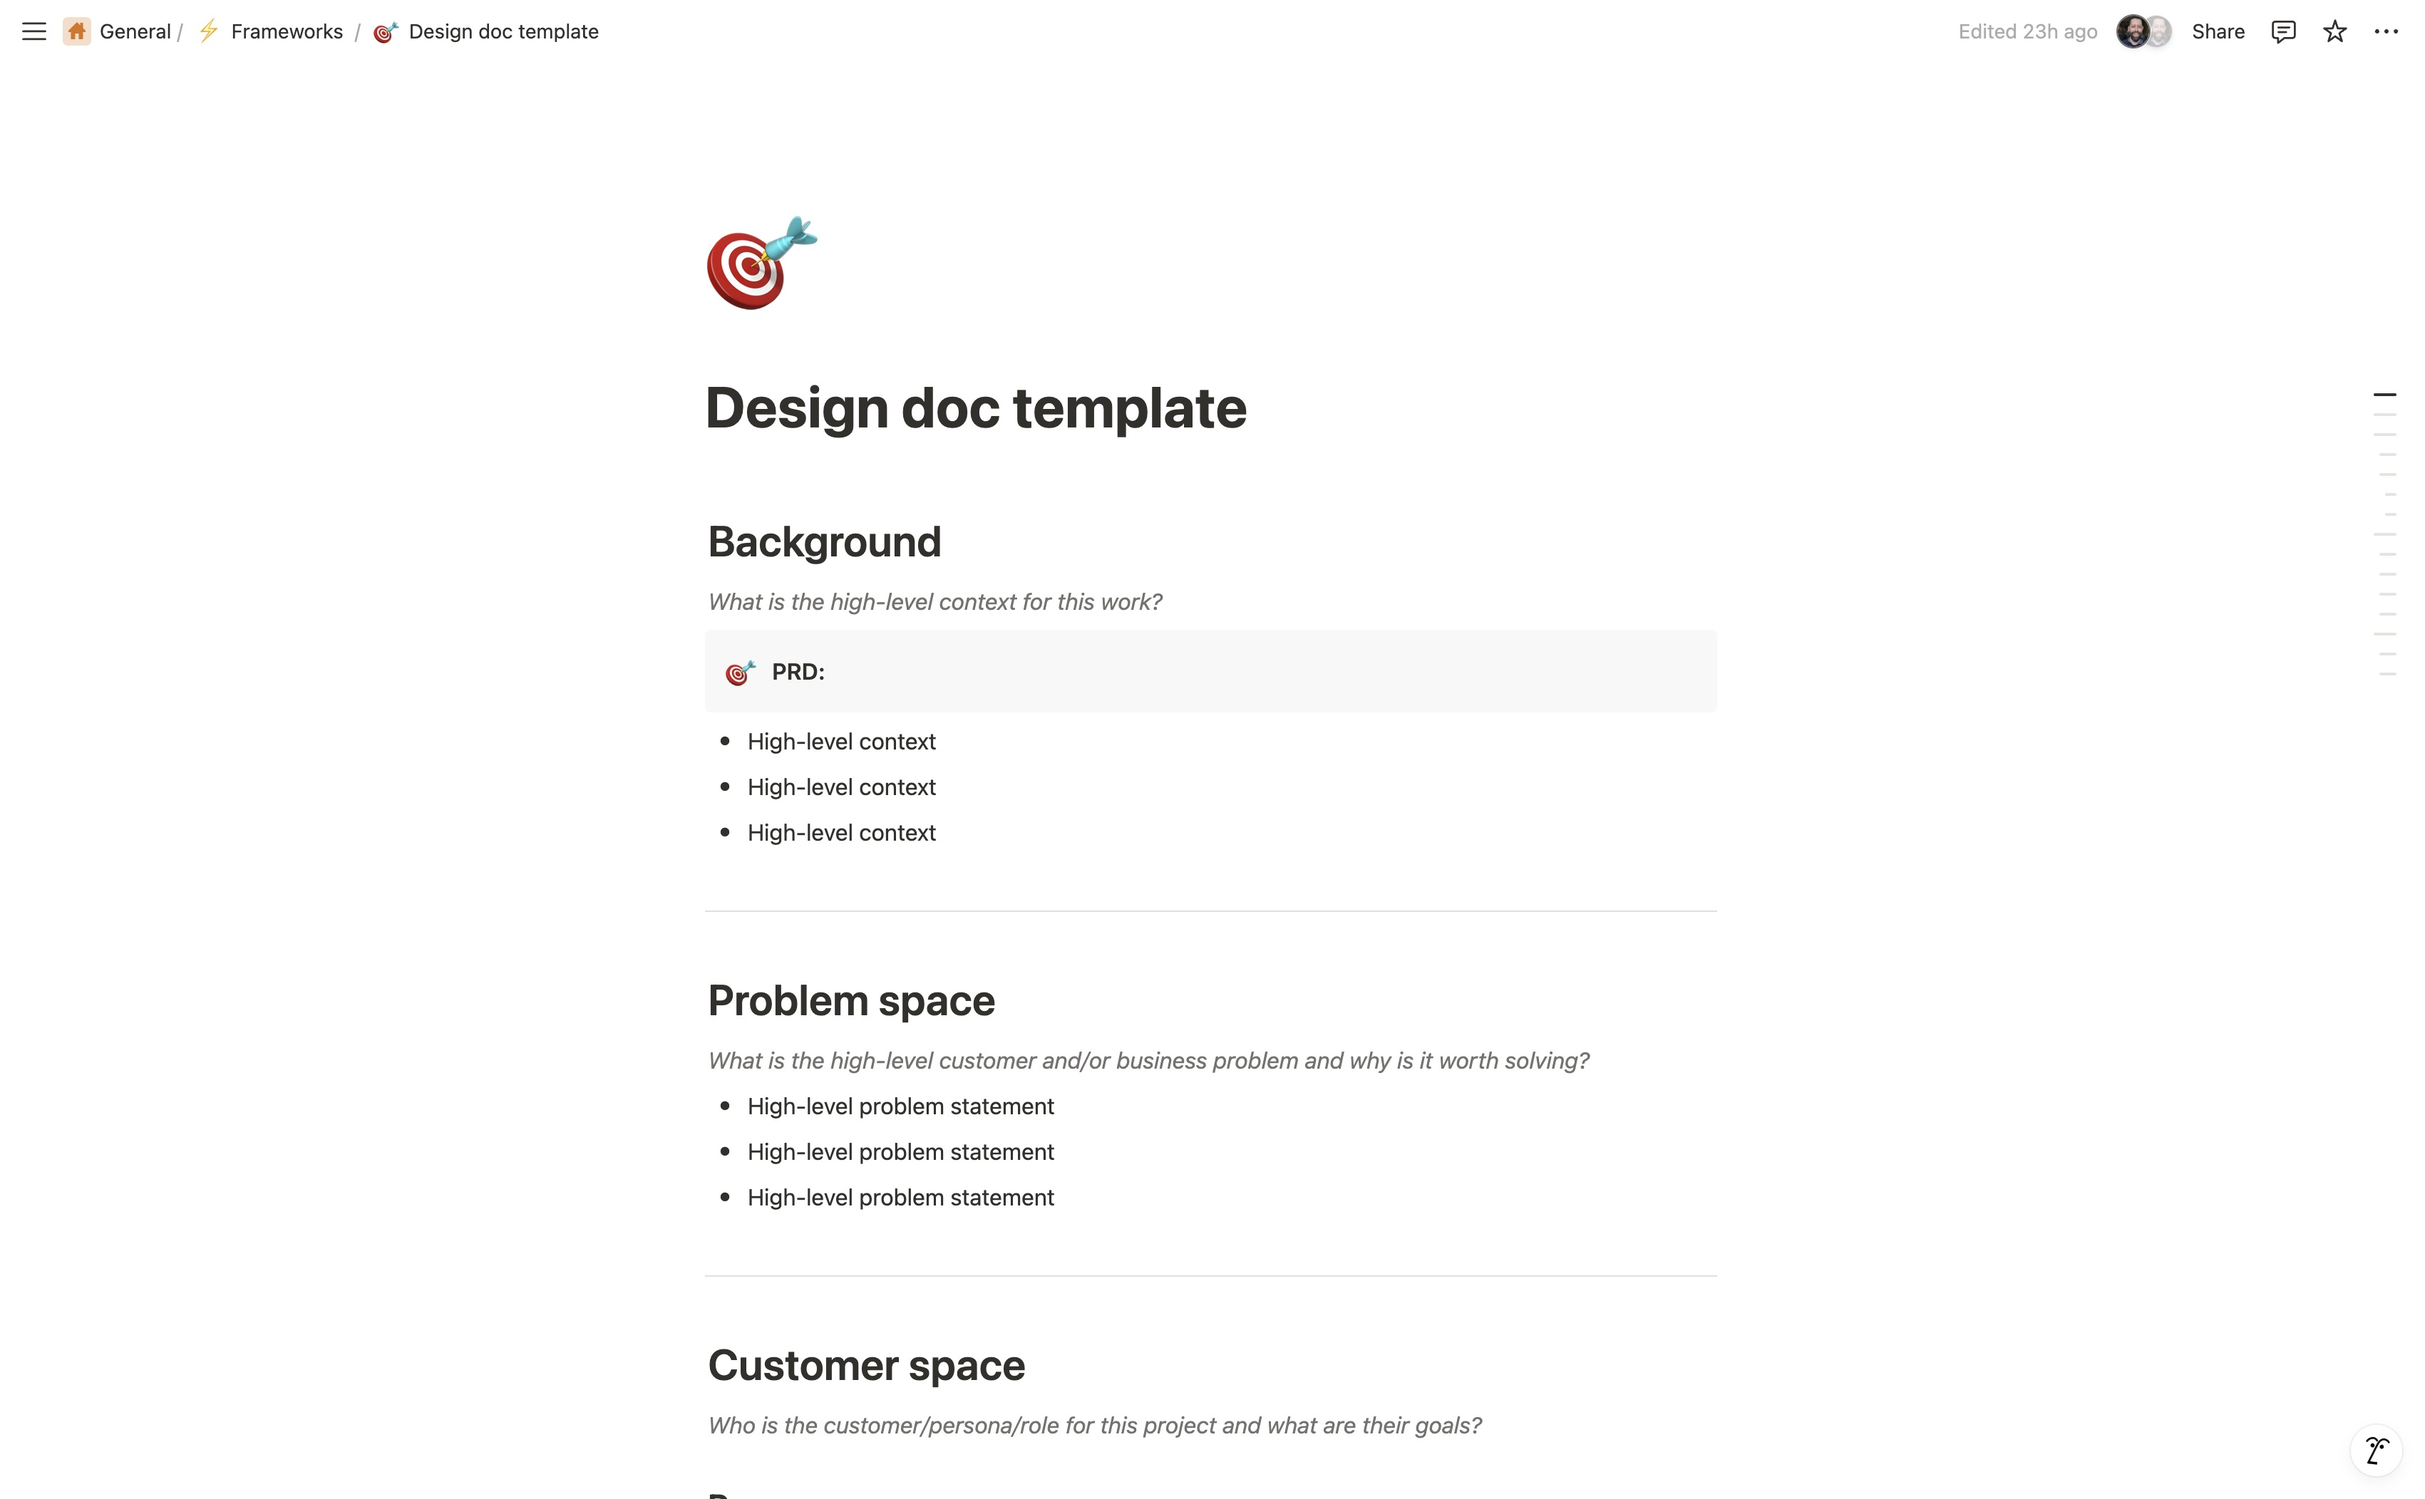
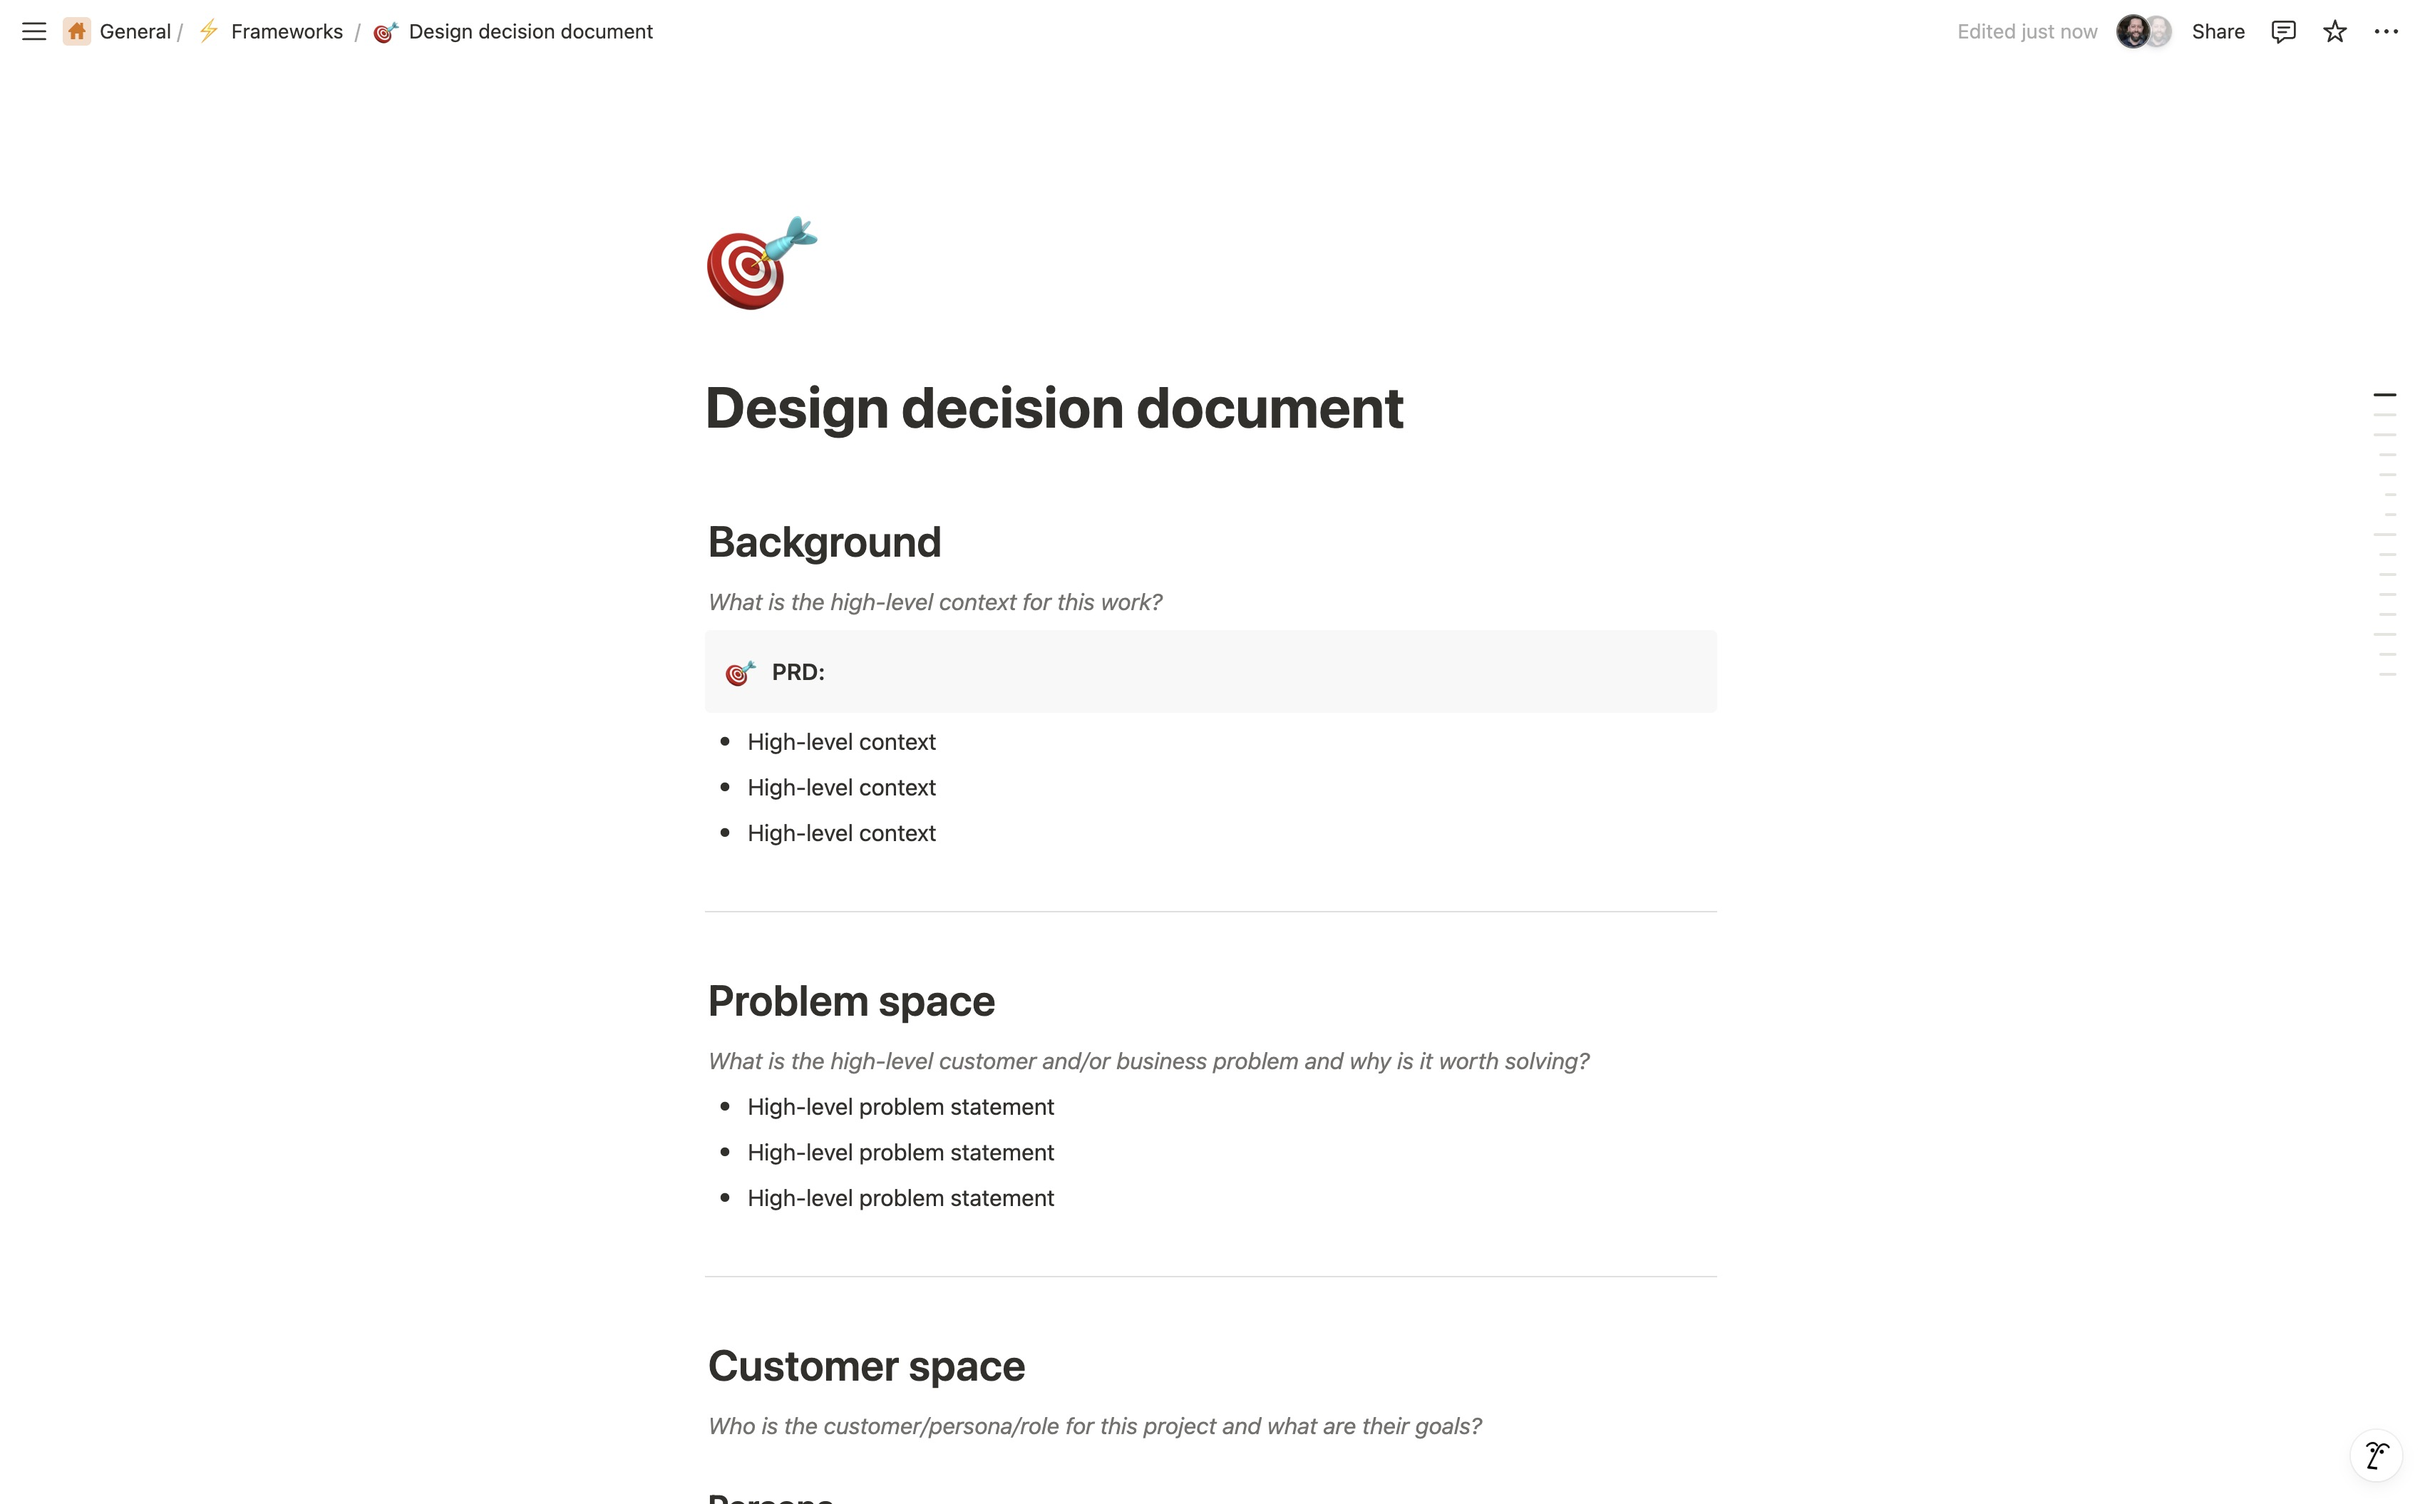
added base content

diff --git a/methods/design-maturity.md b/methods/design-maturity.md
@@ -7,28 +7,50 @@ color: "#4E8B9F"
 order: 4
 ---
 
-> 🚧 This page is in progress. Check back again soon. 🚧
+This page offers a collection of frameworks and methods developed during my years leading design teams both in house and as a fraction Head of Design. 
 
-![Design leadership roles & responsibilities](/assets/work/trello/Trello14.png)
-*Design leadership roles & responsibilities*
+> 📫 Want to learn more about my work or go deeper on any of these methods? <a href="https://linkedin.com/in/liamgreig">Get in touch</a>.
+
+## Design team maturity matrix
+
+The design maturity matrix offers a great starting point for design leaders joining a new team or as part of a quarterly review process.
 
 ![Design team maturity matrix](/assets/methods/design-team-maturity/01-framework-maturity-matrix.jpeg)
 *Design team maturity matrix*
-{% include expand-collapse.html
-  title="See it in action"
-  images=
-  "  
-  /assets/methods/top-tasks/02-project-collaboration/02-24.png|
-  "
-%}
+
+## Design gardens
+
+Using the simple metaphor of planting and nurturing seeds in a garden, this method aims to give design teams clear prioritization for their non-project work - design ops, envisioning efforts, team health & well being, and more. 
 
 ![Design gardens](/assets/methods/design-team-maturity/02-framework-design-gardens.jpeg)
 *Design gardens*
+
+## More methods & frameworks
+
+### Design decision document
+
+This simple, repeatable template gives designers an easy way to track and communicate project goals, hypotheses and decisions while offering stakeholders a consistent, predictable output when reviewing design work and progress.
+
 ![Design decision document](/assets/methods/design-team-maturity/03-framework-design-doc.jpeg)
 *Design decision doc*
+
+### Design team onboarding guide
+
+This is a quick and easy starting point to organize onboarding material for new team members. Every organization is different so consider this an accelerant, not the finished product.
+
 ![Onboarding new designers](/assets/methods/design-team-maturity/04-framework-onboarding.jpeg)
 *Onboarding new designers*
+
+### Building balanced design teams
+
+A collection of considerations, goals, mental models and plays designed to build balanced, world-class design teams. These ideas can be referenced when joining a new team as well as to help align and prioritize activities as a design leadership team.
+
 ![Building balanced design teams](/assets/methods/design-team-maturity/05-building-balanced-teams.jpeg)
 *Building balanced design teams*
+
+### Design team charter
+
+Define your design team's purpose and values while leveling up your internal and cross-functional collaboration methods.
+
 ![Design team charter agenda](/assets/methods/design-team-maturity/06-team-charter-agenda.jpeg)
 *Design team charter agenda*
